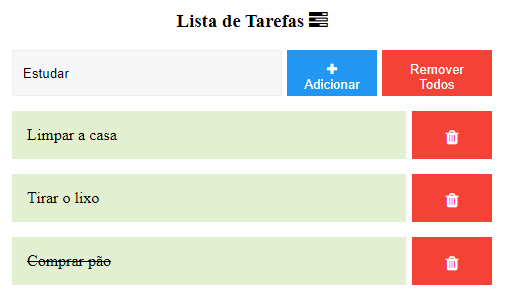
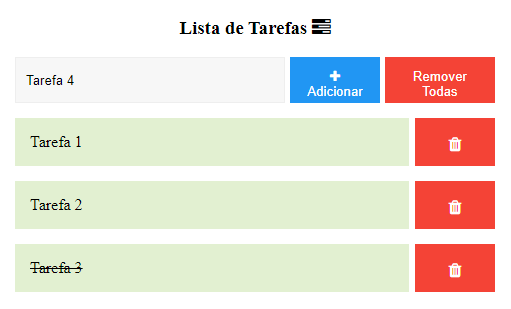
Alteração nome botão.

diff --git a/index.html b/index.html
@@ -37,7 +37,7 @@
         v-if="tarefas.length &gt; 1"
         class="remover-todos"
       >
-        Remover Todos
+        Remover Todas
       </button>
       <div
         class="tarefas"
